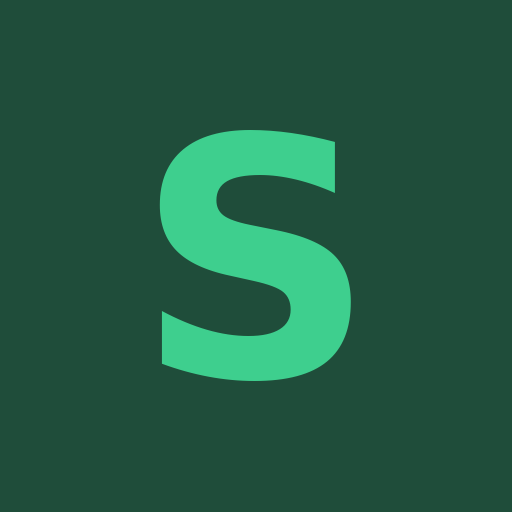
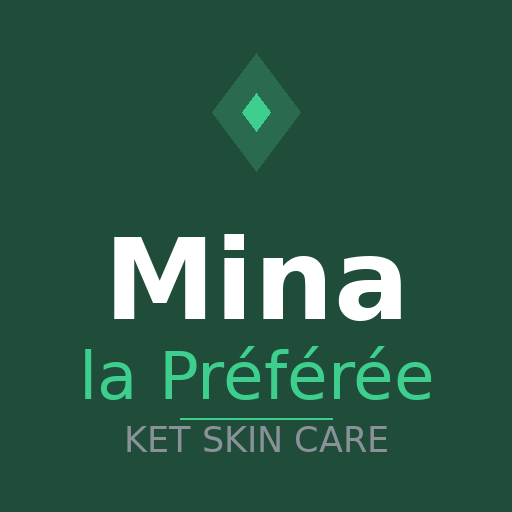
feat: icônes PWA 'Mina la Préférée' — branding boutique
- Icônes 192x192 et 512x512 avec nom Mina la Préférée
- Fond vert brand #1F4D3A, texte blanc + accent #3ECF8E
- Diamond décoratif, sous-titre KET SKIN CARE
- Favicon SVG, apple-touch-icon, favicon.png

diff --git a/backend/static/sw.js b/backend/static/sw.js
@@ -1,1 +1,1 @@
-if(!self.define){let e,i={};const n=(n,c)=>(n=new URL(n+".js",c).href,i[n]||new Promise(i=>{if("document"in self){const e=document.createElement("script");e.src=n,e.onload=i,document.head.appendChild(e)}else e=n,importScripts(n),i()}).then(()=>{let e=i[n];if(!e)throw new Error(`Module ${n} didn’t register its module`);return e}));self.define=(c,o)=>{const r=e||("document"in self?document.currentScript.src:"")||location.href;if(i[r])return;let s={};const a=e=>n(e,r),d={module:{uri:r},exports:s,require:a};i[r]=Promise.all(c.map(e=>d[e]||a(e))).then(e=>(o(...e),s))}}define(["./workbox-e4022e15"],function(e){"use strict";self.skipWaiting(),e.clientsClaim(),e.precacheAndRoute([{url:"registerSW.js",revision:"1872c500de691dce40960bb85481de07"},{url:"index.html",revision:"f7c021c56bc39e16a987e1f697d0b7f4"},{url:"icon-512x512.png",revision:"2514c957ed56e5506e1e7aad5e500291"},{url:"icon-192x192.png",revision:"fa1dac1cbb104f391b057af93f1091d4"},{url:"favicon.svg",revision:"62b7c4db2c8402fdac81169ae7c4586e"},{url:"favicon.png",revision:"718e9f4abd4fb3e3021ee7c65063f12d"},{url:"apple-touch-icon.png",revision:"cac4573545cf9390a038374836313dc9"},{url:"assets/index-DXdOF5Bv.js",revision:null},{url:"assets/index-DM6vvtHo.css",revision:null},{url:"apple-touch-icon.png",revision:"cac4573545cf9390a038374836313dc9"},{url:"favicon.png",revision:"718e9f4abd4fb3e3021ee7c65063f12d"},{url:"favicon.svg",revision:"62b7c4db2c8402fdac81169ae7c4586e"},{url:"icon-192x192.png",revision:"fa1dac1cbb104f391b057af93f1091d4"},{url:"icon-512x512.png",revision:"2514c957ed56e5506e1e7aad5e500291"},{url:"manifest.webmanifest",revision:"dc2c866390d0aa8f87a7f61103b3bb63"}],{}),e.cleanupOutdatedCaches(),e.registerRoute(new e.NavigationRoute(e.createHandlerBoundToURL("index.html"))),e.registerRoute(/^https:\/\/stockcosm-api\.onrender\.com\/api\/.*/i,new e.NetworkFirst({cacheName:"api-cache",plugins:[new e.ExpirationPlugin({maxEntries:50,maxAgeSeconds:300})]}),"GET")});
+if(!self.define){let e,i={};const n=(n,c)=>(n=new URL(n+".js",c).href,i[n]||new Promise(i=>{if("document"in self){const e=document.createElement("script");e.src=n,e.onload=i,document.head.appendChild(e)}else e=n,importScripts(n),i()}).then(()=>{let e=i[n];if(!e)throw new Error(`Module ${n} didn’t register its module`);return e}));self.define=(c,o)=>{const r=e||("document"in self?document.currentScript.src:"")||location.href;if(i[r])return;let s={};const a=e=>n(e,r),d={module:{uri:r},exports:s,require:a};i[r]=Promise.all(c.map(e=>d[e]||a(e))).then(e=>(o(...e),s))}}define(["./workbox-e4022e15"],function(e){"use strict";self.skipWaiting(),e.clientsClaim(),e.precacheAndRoute([{url:"registerSW.js",revision:"1872c500de691dce40960bb85481de07"},{url:"index.html",revision:"f7c021c56bc39e16a987e1f697d0b7f4"},{url:"icon-512x512.png",revision:"36554f0f84509cb43cd221aa44896e62"},{url:"icon-192x192.png",revision:"3cc43eb842c9dcdce70f771c0a7e920d"},{url:"favicon.svg",revision:"ae17c8cbdfb7c62e382a6ad90ae132e7"},{url:"favicon.png",revision:"0e685958fcf9f74126973804a4842e44"},{url:"apple-touch-icon.png",revision:"d3d6455a9107a2017b85f08a53106359"},{url:"assets/index-DXdOF5Bv.js",revision:null},{url:"assets/index-DM6vvtHo.css",revision:null},{url:"apple-touch-icon.png",revision:"d3d6455a9107a2017b85f08a53106359"},{url:"favicon.png",revision:"0e685958fcf9f74126973804a4842e44"},{url:"favicon.svg",revision:"ae17c8cbdfb7c62e382a6ad90ae132e7"},{url:"icon-192x192.png",revision:"3cc43eb842c9dcdce70f771c0a7e920d"},{url:"icon-512x512.png",revision:"36554f0f84509cb43cd221aa44896e62"},{url:"manifest.webmanifest",revision:"dc2c866390d0aa8f87a7f61103b3bb63"}],{}),e.cleanupOutdatedCaches(),e.registerRoute(new e.NavigationRoute(e.createHandlerBoundToURL("index.html"))),e.registerRoute(/^https:\/\/stockcosm-api\.onrender\.com\/api\/.*/i,new e.NetworkFirst({cacheName:"api-cache",plugins:[new e.ExpirationPlugin({maxEntries:50,maxAgeSeconds:300})]}),"GET")});
